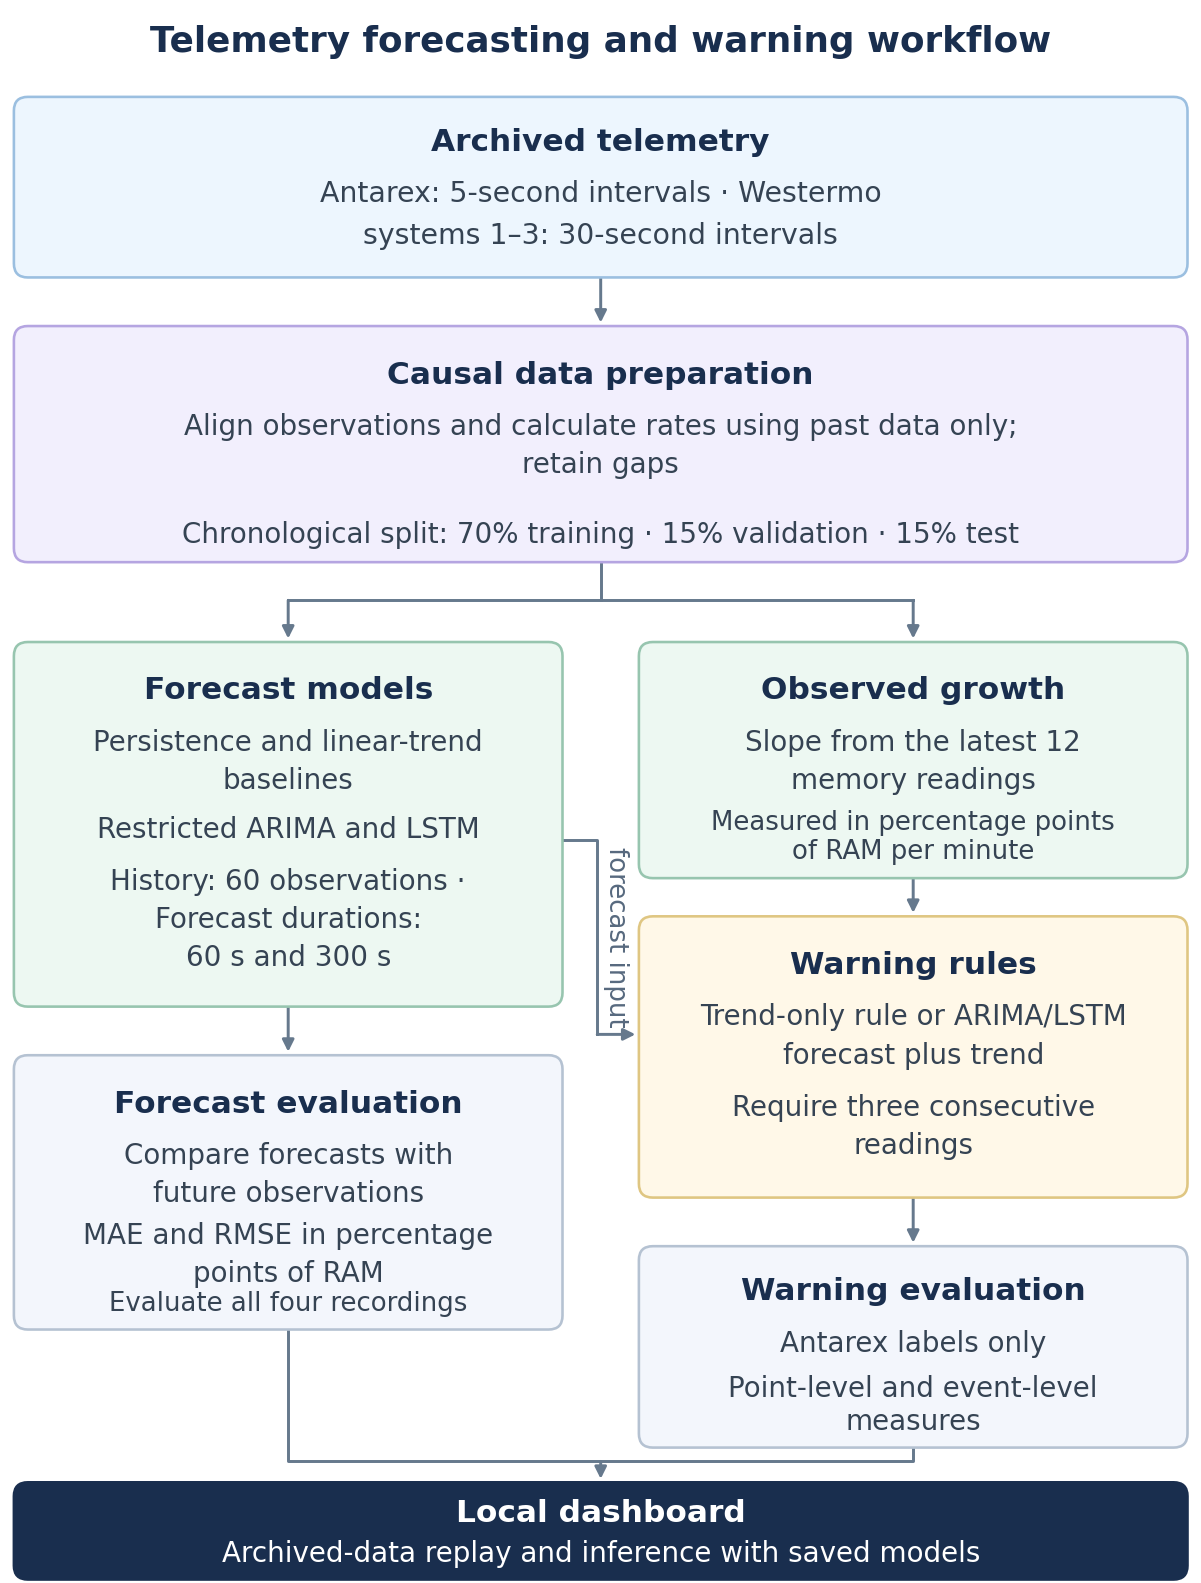
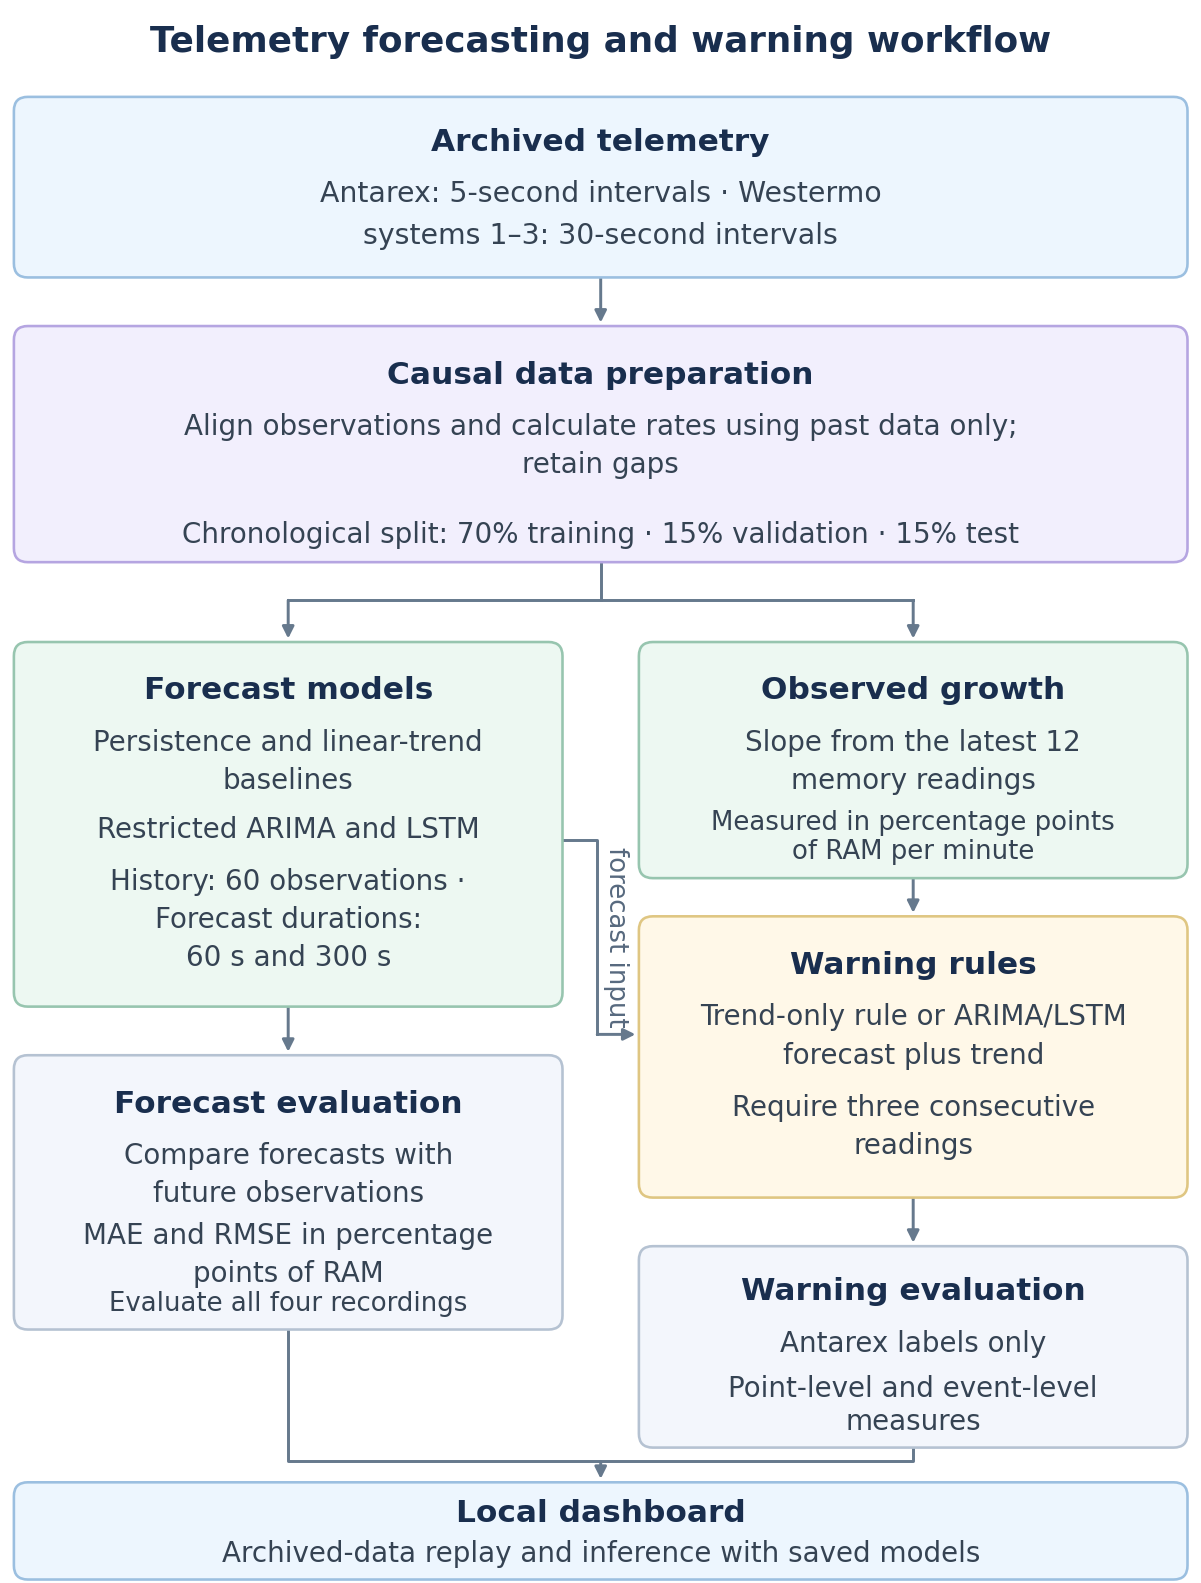
Lighten dashboard box colors without changing diagram wording

Changed region(s): [[0.0, 0.9286, 1.0, 1.0]]

diff --git a/scripts/build_spin_architecture.py b/scripts/build_spin_architecture.py
@@ -104,7 +104,7 @@ def main():
     ], "#f3f6fc", "#b5c2d2")
     box(4, 1, 338, 28, "Local dashboard", 20, [
         ("Archived-data replay and inference with saved models", 8.5, 8.0),
-    ], NAVY, NAVY, dark=True)
+    ], "#edf6fe", "#9bbfe0")
 
     arrow([(173, 376), (173, 362)])
     line([(173, 294), (173, 283)])
